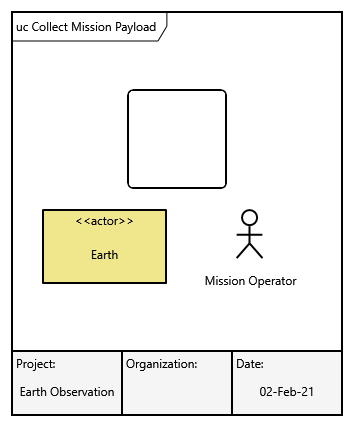
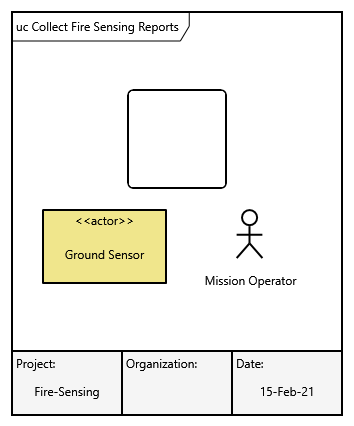
update teamview

diff --git a/docs/EntityBrowser.js b/docs/EntityBrowser.js
@@ -9,19 +9,22 @@ function FillEntityBrowser(guidID) {
 strEntities = '(no entities present)';
 
 if (guidID == '0f7e7123-0188-4249-af06-17bd15839ea6') {
-strEntities = "<span class='cNdeLink' onclick=\"E_C('f3d9d2c6-6332-47e4-910a-24514a5b5682_d2c054c3-1801-4fd3-81bd-e6ee696457e1')\">C Earth Observation System Context</span><br /><span class='cNdeLink' onclick=\"E_C('f3d9d2c6-6332-47e4-910a-24514a5b5682_ffc698c3-f4ce-43c0-a744-8d25ddfceed5')\">C.1 CubeSat</span><br /><span class='cNdeLink' onclick=\"E_C('f3d9d2c6-6332-47e4-910a-24514a5b5682_f3e8608a-bab7-493d-b7ce-8d614fc244b5')\">C.2 Ground Station</span><br /><span class='cNdeLink' onclick=\"E_C('f3d9d2c6-6332-47e4-910a-24514a5b5682_2f0d877e-f597-4b75-a17f-b649573ef870')\">E Earth</span><br /><span class='cNdeLink' onclick=\"E_C('f3d9d2c6-6332-47e4-910a-24514a5b5682_9e50580a-bc24-4d52-8a25-59982a498b04')\">G GPS</span><br /><span class='cNdeLink' onclick=\"E_C('f3d9d2c6-6332-47e4-910a-24514a5b5682_7df9593d-9895-4fcc-9789-d1b33ecc47e9')\">LS Launch Service</span><br /><span class='cNdeLink' onclick=\"E_C('f3d9d2c6-6332-47e4-910a-24514a5b5682_d6866885-c2a1-4949-8379-d6c20a9d3de4')\">MO Mission Operator</span><br />"
+strEntities = "<span class='cNdeLink' onclick=\"E_C('f3d9d2c6-6332-47e4-910a-24514a5b5682_d2c054c3-1801-4fd3-81bd-e6ee696457e1')\">C Forest Fire Sensing System Context</span><br /><span class='cNdeLink' onclick=\"E_C('f3d9d2c6-6332-47e4-910a-24514a5b5682_ffc698c3-f4ce-43c0-a744-8d25ddfceed5')\">C.1 CubeSat</span><br /><span class='cNdeLink' onclick=\"E_C('f3d9d2c6-6332-47e4-910a-24514a5b5682_f3e8608a-bab7-493d-b7ce-8d614fc244b5')\">C.2 Ground Station</span><br /><span class='cNdeLink' onclick=\"E_C('f3d9d2c6-6332-47e4-910a-24514a5b5682_9e50580a-bc24-4d52-8a25-59982a498b04')\">G GPS</span><br /><span class='cNdeLink' onclick=\"E_C('f3d9d2c6-6332-47e4-910a-24514a5b5682_2f0d877e-f597-4b75-a17f-b649573ef870')\">GS Ground Sensor</span><br /><span class='cNdeLink' onclick=\"E_C('f3d9d2c6-6332-47e4-910a-24514a5b5682_7df9593d-9895-4fcc-9789-d1b33ecc47e9')\">LS Launch Service</span><br /><span class='cNdeLink' onclick=\"E_C('f3d9d2c6-6332-47e4-910a-24514a5b5682_d6866885-c2a1-4949-8379-d6c20a9d3de4')\">MO Mission Operator</span><br />"
+}
+else if (guidID == 'b154ab56-ff10-4bc7-9456-c47397e30a58') {
+strEntities = "<span class='cNdeLink' onclick=\"E_C('f3d9d2c6-6332-47e4-910a-24514a5b5682_bd282495-b80a-4625-9ccc-174b4decf85e')\">DOC.1 CONOPS</span><br />"
 }
 else if (guidID == '18f36831-03b8-4d14-89cc-00a981def236') {
-strEntities = "<span class='cNdeLink' onclick=\"E_C('f3d9d2c6-6332-47e4-910a-24514a5b5682_a155b176-1040-4bf4-aa6b-e4e0dafd09fd')\">Deployment Control</span><br /><span class='cNdeLink' onclick=\"E_C('f3d9d2c6-6332-47e4-910a-24514a5b5682_2323fcfa-0748-4e80-8503-d1350a89a25c')\">Guidance &amp; Navigation</span><br /><span class='cNdeLink' onclick=\"E_C('f3d9d2c6-6332-47e4-910a-24514a5b5682_fd7716a4-e09f-412d-9f99-680c279d8705')\">Location</span><br /><span class='cNdeLink' onclick=\"E_C('f3d9d2c6-6332-47e4-910a-24514a5b5682_0627bf03-d93f-4638-9459-3f2ea7e33be4')\">Mission Control</span><br /><span class='cNdeLink' onclick=\"E_C('f3d9d2c6-6332-47e4-910a-24514a5b5682_17ef2868-3b4c-401e-a8b7-d2ea75bf277b')\">Mission Payload</span><br /><span class='cNdeLink' onclick=\"E_C('f3d9d2c6-6332-47e4-910a-24514a5b5682_c2f45277-81ca-4870-89cd-300f0c947a55')\">Observation</span><br />"
+strEntities = "<span class='cNdeLink' onclick=\"E_C('f3d9d2c6-6332-47e4-910a-24514a5b5682_a155b176-1040-4bf4-aa6b-e4e0dafd09fd')\">Deployment Control</span><br /><span class='cNdeLink' onclick=\"E_C('f3d9d2c6-6332-47e4-910a-24514a5b5682_2323fcfa-0748-4e80-8503-d1350a89a25c')\">Guidance &amp; Navigation</span><br /><span class='cNdeLink' onclick=\"E_C('f3d9d2c6-6332-47e4-910a-24514a5b5682_fd7716a4-e09f-412d-9f99-680c279d8705')\">Location</span><br /><span class='cNdeLink' onclick=\"E_C('f3d9d2c6-6332-47e4-910a-24514a5b5682_0627bf03-d93f-4638-9459-3f2ea7e33be4')\">Mission Control</span><br /><span class='cNdeLink' onclick=\"E_C('f3d9d2c6-6332-47e4-910a-24514a5b5682_17ef2868-3b4c-401e-a8b7-d2ea75bf277b')\">Mission Payload</span><br /><span class='cNdeLink' onclick=\"E_C('f3d9d2c6-6332-47e4-910a-24514a5b5682_c2f45277-81ca-4870-89cd-300f0c947a55')\">Sensor Report</span><br />"
 }
 else if (guidID == 'ab70da3b-1963-41e0-817e-f663e54f6681') {
 strEntities = "<span class='cNdeLink' onclick=\"E_C('f3d9d2c6-6332-47e4-910a-24514a5b5682_9f5f8c89-219d-44a1-ac21-b18689d5dfa3')\">1 Virginia Tech</span><br /><span class='cNdeLink' onclick=\"E_C('f3d9d2c6-6332-47e4-910a-24514a5b5682_4423a899-8818-4dda-bc72-82fc03e3c0bb')\">2 University of Virginia</span><br /><span class='cNdeLink' onclick=\"E_C('f3d9d2c6-6332-47e4-910a-24514a5b5682_a6e2c5f0-8851-45aa-b495-bbbee647078b')\">3 University of Southern California</span><br />"
 }
 else if (guidID == 'f5a2162d-74d3-47a0-9b8b-e51d12db78a0') {
-strEntities = "<span class='cNdeLink' onclick=\"E_C('f3d9d2c6-6332-47e4-910a-24514a5b5682_8713c517-fe38-4fd9-9988-141c4862c0d2')\">REQ.1 The earth observation system shall monitor United States weather patterns.</span><br />"
+strEntities = "<span class='cNdeLink' onclick=\"E_C('f3d9d2c6-6332-47e4-910a-24514a5b5682_8713c517-fe38-4fd9-9988-141c4862c0d2')\">REQ.1 The fire sensing system shall monitor a geographic area to detect forest fires.</span><br />"
 }
 else if (guidID == 'fcbe73fa-9d51-4d60-af41-6e728a715264') {
-strEntities = "<span class='cNdeLink' onclick=\"E_C('f3d9d2c6-6332-47e4-910a-24514a5b5682_8b55ba06-c7dd-40b2-bf8c-daf10cfdd352')\">UC Earth Observation</span><br /><span class='cNdeLink' onclick=\"E_C('f3d9d2c6-6332-47e4-910a-24514a5b5682_6490a095-835f-4181-8ba8-5ca8e83d3fd6')\">UC.1 Deploy CubeSat</span><br /><span class='cNdeLink' onclick=\"E_C('f3d9d2c6-6332-47e4-910a-24514a5b5682_df7939f4-9a08-481c-9537-837f56f36e7a')\">UC.2 Provide Guidance &amp; Navigation</span><br /><span class='cNdeLink' onclick=\"E_C('f3d9d2c6-6332-47e4-910a-24514a5b5682_0d0d7999-fb7b-4b6c-8ec9-789812a96cea')\">UC.3 Collect Mission Payload</span><br />"
+strEntities = "<span class='cNdeLink' onclick=\"E_C('f3d9d2c6-6332-47e4-910a-24514a5b5682_8b55ba06-c7dd-40b2-bf8c-daf10cfdd352')\">UC Forest Fire Sensing</span><br /><span class='cNdeLink' onclick=\"E_C('f3d9d2c6-6332-47e4-910a-24514a5b5682_6490a095-835f-4181-8ba8-5ca8e83d3fd6')\">UC.1 Deploy CubeSat</span><br /><span class='cNdeLink' onclick=\"E_C('f3d9d2c6-6332-47e4-910a-24514a5b5682_df7939f4-9a08-481c-9537-837f56f36e7a')\">UC.2 Provide Guidance &amp; Navigation</span><br /><span class='cNdeLink' onclick=\"E_C('f3d9d2c6-6332-47e4-910a-24514a5b5682_0d0d7999-fb7b-4b6c-8ec9-789812a96cea')\">UC.3 Collect Fire Sensing Reports</span><br />"
 }
 
 document.getElementById('tdEntitiesBorder').innerHTML = strEntities;

diff --git a/docs/f3d9d2c6-6332-47e4-910a-24514a5b5682_bd282495-b80a-4625-9ccc-174b4decf85e.htm b/docs/f3d9d2c6-6332-47e4-910a-24514a5b5682_bd282495-b80a-4625-9ccc-174b4decf85e.htm
@@ -26,8 +26,8 @@ window.parent.postMessage(document.body.scrollHeight, '*');
 </head>
 <body onload='window_Load()' style='text-align: center; padding-top: 10px'>
 <table cellpadding='0' cellspacing='0' style='width: 75%; margin-left: auto; margin-right: auto; vertical-align: top; padding-bottom: 10px'>
-<tr><td id='tdEntityName'>Requirement / The fire sensing system shall monitor a geographic area to detect forest fires.</td>
-<td style='text-align: right'>View:&nbsp;<select id='cmbEntityViews' onchange='View_Change()'><option value='f3d9d2c6-6332-47e4-910a-24514a5b5682_8713c517-fe38-4fd9-9988-141c4862c0d2.htm'>Property sheet</option>
+<tr><td id='tdEntityName'>Document / CONOPS</td>
+<td style='text-align: right'>View:&nbsp;<select id='cmbEntityViews' onchange='View_Change()'><option value='f3d9d2c6-6332-47e4-910a-24514a5b5682_bd282495-b80a-4625-9ccc-174b4decf85e.htm'>Property sheet</option>
 </select>
 </td></tr></table>
 <table cellpadding='5' cellspacing='0' class='cPrimBG' style='width: 75%; margin-left: auto; margin-right: auto; vertical-align: top'>
@@ -36,19 +36,33 @@ window.parent.postMessage(document.body.scrollHeight, '*');
 </td></tr></table>
 <table id='tblAttribSheet' cellpadding='5' cellspacing='0' class='cSecBG' style='width: 75%; margin-left: auto; margin-right: auto; text-align: left; vertical-align: top'>
 <tr><td style='font-weight: bold; width: 150px; vertical-align: top'>Name</td>
-<td>The fire sensing system shall monitor a geographic area to detect forest fires.</td></tr>
+<td>CONOPS</td></tr>
 <tr><td style='font-weight: bold; width: 150px; vertical-align: top'>Number</td>
-<td>REQ.1</td></tr>
+<td>DOC.1</td></tr>
+<tr><td style='font-weight: bold; width: 150px; vertical-align: top'>Description</td>
+<td><style type="text/css">
+			.cs2654AE3A{text-align:left;text-indent:0pt;margin:0pt 0pt 0pt 0pt}
+			.cs63D6557C{color:#000000;background-color:transparent;font-family:'Segoe UI';font-size:9pt;font-weight:normal;font-style:normal;}
+		</style>
+		<p class="cs2654AE3A"><span class="cs63D6557C">wildFIRE Remote Sensing (FIRE-RS) Concept of Operations</span></p><p class="cs2654AE3A"><span class="cs63D6557C">&nbsp;</span></p><p class="cs2654AE3A"><span class="cs63D6557C">https://github.com/coordinated-systems-lab/cube-sat/blob/main/common/lume-1-cubesat-case-study-updated.pdf </span></p></td></tr>
+<tr><td style='font-weight: bold; width: 150px; vertical-align: top'>Revision Number</td>
+<td>v1.0</td></tr>
+<tr><td style='font-weight: bold; width: 150px; vertical-align: top'>Document Date</td>
+<td>Thursday, December 27, 2018</td></tr>
 <tr><td style='font-weight: bold; width: 150px; vertical-align: top'>Type</td>
-<td>Functional</td></tr>
-<tr><td style='font-weight: bold; width: 150px; vertical-align: top'>Key Performance Parameter</td>
-<td>False</td></tr>
-<tr><td style='font-weight: bold; width: 150px; vertical-align: top'>Performance Parameter Type</td>
+<td>Procurement Specification</td></tr>
+<tr><td style='font-weight: bold; width: 150px; vertical-align: top'>Doc. Report</td>
 <td>nil</td></tr>
-<tr><td style='font-weight: bold; width: 150px; vertical-align: top'>Origin</td>
-<td>Originating</td></tr>
-<tr><td style='font-weight: bold; width: 150px; vertical-align: top'>Incentive Performance Parameter</td>
-<td>False</td></tr>
+<tr><td style='font-weight: bold; width: 150px; vertical-align: top'>Govt. Category</td>
+<td>nil</td></tr>
+<tr><td style='font-weight: bold; width: 150px; vertical-align: top'>Non-Govt. Category</td>
+<td>OTHER PUBLICATIONS</td></tr>
+<tr><td style='font-weight: bold; width: 150px; vertical-align: top'>Document Overview</td>
+<td><style type="text/css">
+			.cs2654AE3A{text-align:left;text-indent:0pt;margin:0pt 0pt 0pt 0pt}
+			.cs63D6557C{color:#000000;background-color:transparent;font-family:'Segoe UI';font-size:9pt;font-weight:normal;font-style:normal;}
+		</style>
+		<p class="cs2654AE3A"><span class="cs63D6557C">The European FireRS project aims the early detection of fires, as</span></p><p class="cs2654AE3A"><span class="cs63D6557C">well as their monitoring and continuous follow-up in order to provide</span></p><p class="cs2654AE3A"><span class="cs63D6557C">real data to emergency systems. It brings together three elements</span></p><p class="cs2654AE3A"><span class="cs63D6557C">that make up the system:</span></p><p class="cs2654AE3A"><span class="cs63D6557C">&bull; Ground sensors.</span></p><p class="cs2654AE3A"><span class="cs63D6557C">&bull; A satellite that collects data from sensors.</span></p><p class="cs2654AE3A"><span class="cs63D6557C">&bull; Software for predicting the progress of the fire.</span></p></td></tr>
 </table>
 <table id='tblParamSheet' cellpadding='5' cellspacing='0' class='cSecBG' style='display: none; width: 75%; margin-left: auto; margin-right: auto; text-align: left; vertical-align: top'>
 <tr><td>(none present)</td></tr>
@@ -56,7 +70,7 @@ window.parent.postMessage(document.body.scrollHeight, '*');
 <table cellpadding='5' cellspacing='0' class='cPrimBG' style='width: 75%; margin-left: auto; margin-right: auto; text-align: left; vertical-align: top'>
 <tr><td class='cPrimBG' style='text-align: left'>Relationships</td></tr></table>
 <table cellpadding='5' cellspacing='0' class='cSecBG' style='width: 75%; margin-left: auto; margin-right: auto; text-align: left; vertical-align: top'>
-<tr><td style='font-weight: bold; width: 150px; vertical-align: top'>elicited by</td>
+<tr><td style='font-weight: bold; width: 150px; vertical-align: top'>documents</td>
 <td>
 <div><span class='cNdeLink' style='text-decoration: underline' onclick="window.location.assign('f3d9d2c6-6332-47e4-910a-24514a5b5682_8b55ba06-c7dd-40b2-bf8c-daf10cfdd352.htm')">UseCase: UC Forest Fire Sensing</span></div>
 </td></tr>

diff --git a/docs/f3d9d2c6-6332-47e4-910a-24514a5b5682_8b55ba06-c7dd-40b2-bf8c-daf10cfdd352.htm b/docs/f3d9d2c6-6332-47e4-910a-24514a5b5682_8b55ba06-c7dd-40b2-bf8c-daf10cfdd352.htm
@@ -26,7 +26,7 @@ window.parent.postMessage(document.body.scrollHeight, '*');
 </head>
 <body onload='window_Load()' style='text-align: center; padding-top: 10px'>
 <table cellpadding='0' cellspacing='0' style='width: 75%; margin-left: auto; margin-right: auto; vertical-align: top; padding-bottom: 10px'>
-<tr><td id='tdEntityName'>UseCase / Earth Observation</td>
+<tr><td id='tdEntityName'>UseCase / Forest Fire Sensing</td>
 <td style='text-align: right'>View:&nbsp;<select id='cmbEntityViews' onchange='View_Change()'><option value='f3d9d2c6-6332-47e4-910a-24514a5b5682_8b55ba06-c7dd-40b2-bf8c-daf10cfdd352.htm'>Property sheet</option>
 <option value='f3d9d2c6-6332-47e4-910a-24514a5b5682_8b55ba06-c7dd-40b2-bf8c-daf10cfdd352_UseCase.htm'>UseCase</option>
 </select>
@@ -37,7 +37,7 @@ window.parent.postMessage(document.body.scrollHeight, '*');
 </td></tr></table>
 <table id='tblAttribSheet' cellpadding='5' cellspacing='0' class='cSecBG' style='width: 75%; margin-left: auto; margin-right: auto; text-align: left; vertical-align: top'>
 <tr><td style='font-weight: bold; width: 150px; vertical-align: top'>Name</td>
-<td>Earth Observation</td></tr>
+<td>Forest Fire Sensing</td></tr>
 <tr><td style='font-weight: bold; width: 150px; vertical-align: top'>Number</td>
 <td>UC</td></tr>
 </table>
@@ -47,11 +47,19 @@ window.parent.postMessage(document.body.scrollHeight, '*');
 <table cellpadding='5' cellspacing='0' class='cPrimBG' style='width: 75%; margin-left: auto; margin-right: auto; text-align: left; vertical-align: top'>
 <tr><td class='cPrimBG' style='text-align: left'>Relationships</td></tr></table>
 <table cellpadding='5' cellspacing='0' class='cSecBG' style='width: 75%; margin-left: auto; margin-right: auto; text-align: left; vertical-align: top'>
+<tr><td style='font-weight: bold; width: 150px; vertical-align: top'>documented by</td>
+<td>
+<div><span class='cNdeLink' style='text-decoration: underline' onclick="window.location.assign('f3d9d2c6-6332-47e4-910a-24514a5b5682_bd282495-b80a-4625-9ccc-174b4decf85e.htm')">Document: DOC.1 CONOPS</span></div>
+</td></tr>
+<tr><td style='font-weight: bold; width: 150px; vertical-align: top'>elicits</td>
+<td>
+<div><span class='cNdeLink' style='text-decoration: underline' onclick="window.location.assign('f3d9d2c6-6332-47e4-910a-24514a5b5682_8713c517-fe38-4fd9-9988-141c4862c0d2.htm')">Requirement: REQ.1 The fire sensing system shall monitor a geographic area to detect forest fires.</span></div>
+</td></tr>
 <tr><td style='font-weight: bold; width: 150px; vertical-align: top'>includes</td>
 <td>
 <div><span class='cNdeLink' style='text-decoration: underline' onclick="window.location.assign('f3d9d2c6-6332-47e4-910a-24514a5b5682_6490a095-835f-4181-8ba8-5ca8e83d3fd6.htm')">UseCase: UC.1 Deploy CubeSat</span></div>
 <div><span class='cNdeLink' style='text-decoration: underline' onclick="window.location.assign('f3d9d2c6-6332-47e4-910a-24514a5b5682_df7939f4-9a08-481c-9537-837f56f36e7a.htm')">UseCase: UC.2 Provide Guidance &amp; Navigation</span></div>
-<div><span class='cNdeLink' style='text-decoration: underline' onclick="window.location.assign('f3d9d2c6-6332-47e4-910a-24514a5b5682_0d0d7999-fb7b-4b6c-8ec9-789812a96cea.htm')">UseCase: UC.3 Collect Mission Payload</span></div>
+<div><span class='cNdeLink' style='text-decoration: underline' onclick="window.location.assign('f3d9d2c6-6332-47e4-910a-24514a5b5682_0d0d7999-fb7b-4b6c-8ec9-789812a96cea.htm')">UseCase: UC.3 Collect Fire Sensing Reports</span></div>
 </td></tr>
 <tr><td style='font-weight: bold; width: 150px; vertical-align: top'>involves</td>
 <td>

diff --git a/docs/f3d9d2c6-6332-47e4-910a-24514a5b5682_2f0d877e-f597-4b75-a17f-b649573ef870.htm b/docs/f3d9d2c6-6332-47e4-910a-24514a5b5682_2f0d877e-f597-4b75-a17f-b649573ef870.htm
@@ -26,7 +26,7 @@ window.parent.postMessage(document.body.scrollHeight, '*');
 </head>
 <body onload='window_Load()' style='text-align: center; padding-top: 10px'>
 <table cellpadding='0' cellspacing='0' style='width: 75%; margin-left: auto; margin-right: auto; vertical-align: top; padding-bottom: 10px'>
-<tr><td id='tdEntityName'>Component / Earth</td>
+<tr><td id='tdEntityName'>Component / Ground Sensor</td>
 <td style='text-align: right'>View:&nbsp;<select id='cmbEntityViews' onchange='View_Change()'><option value='f3d9d2c6-6332-47e4-910a-24514a5b5682_2f0d877e-f597-4b75-a17f-b649573ef870.htm'>Property sheet</option>
 </select>
 </td></tr></table>
@@ -36,13 +36,13 @@ window.parent.postMessage(document.body.scrollHeight, '*');
 </td></tr></table>
 <table id='tblAttribSheet' cellpadding='5' cellspacing='0' class='cSecBG' style='width: 75%; margin-left: auto; margin-right: auto; text-align: left; vertical-align: top'>
 <tr><td style='font-weight: bold; width: 150px; vertical-align: top'>Name</td>
-<td>Earth</td></tr>
+<td>Ground Sensor</td></tr>
 <tr><td style='font-weight: bold; width: 150px; vertical-align: top'>Number</td>
-<td>E</td></tr>
+<td>GS</td></tr>
 <tr><td style='font-weight: bold; width: 150px; vertical-align: top'>Abbreviation</td>
 <td>E</td></tr>
 <tr><td style='font-weight: bold; width: 150px; vertical-align: top'>Type</td>
-<td>Environment</td></tr>
+<td>External System</td></tr>
 </table>
 <table id='tblParamSheet' cellpadding='5' cellspacing='0' class='cSecBG' style='display: none; width: 75%; margin-left: auto; margin-right: auto; text-align: left; vertical-align: top'>
 <tr><td>(none present)</td></tr>
@@ -52,11 +52,11 @@ window.parent.postMessage(document.body.scrollHeight, '*');
 <table cellpadding='5' cellspacing='0' class='cSecBG' style='width: 75%; margin-left: auto; margin-right: auto; text-align: left; vertical-align: top'>
 <tr><td style='font-weight: bold; width: 150px; vertical-align: top'>connected to</td>
 <td>
-<div><span class='cNdeLink' style='text-decoration: underline' onclick="window.location.assign('f3d9d2c6-6332-47e4-910a-24514a5b5682_c2f45277-81ca-4870-89cd-300f0c947a55.htm')">Link:  Observation</span></div>
+<div><span class='cNdeLink' style='text-decoration: underline' onclick="window.location.assign('f3d9d2c6-6332-47e4-910a-24514a5b5682_c2f45277-81ca-4870-89cd-300f0c947a55.htm')">Link:  Sensor Report</span></div>
 </td></tr>
 <tr><td style='font-weight: bold; width: 150px; vertical-align: top'>participates in</td>
 <td>
-<div><span class='cNdeLink' style='text-decoration: underline' onclick="window.location.assign('f3d9d2c6-6332-47e4-910a-24514a5b5682_0d0d7999-fb7b-4b6c-8ec9-789812a96cea.htm')">UseCase: UC.3 Collect Mission Payload</span></div>
+<div><span class='cNdeLink' style='text-decoration: underline' onclick="window.location.assign('f3d9d2c6-6332-47e4-910a-24514a5b5682_0d0d7999-fb7b-4b6c-8ec9-789812a96cea.htm')">UseCase: UC.3 Collect Fire Sensing Reports</span></div>
 </td></tr>
 </table>
 </body></html>

diff --git a/docs/f3d9d2c6-6332-47e4-910a-24514a5b5682_0d0d7999-fb7b-4b6c-8ec9-789812a96cea.htm b/docs/f3d9d2c6-6332-47e4-910a-24514a5b5682_0d0d7999-fb7b-4b6c-8ec9-789812a96cea.htm
@@ -26,7 +26,7 @@ window.parent.postMessage(document.body.scrollHeight, '*');
 </head>
 <body onload='window_Load()' style='text-align: center; padding-top: 10px'>
 <table cellpadding='0' cellspacing='0' style='width: 75%; margin-left: auto; margin-right: auto; vertical-align: top; padding-bottom: 10px'>
-<tr><td id='tdEntityName'>UseCase / Collect Mission Payload</td>
+<tr><td id='tdEntityName'>UseCase / Collect Fire Sensing Reports</td>
 <td style='text-align: right'>View:&nbsp;<select id='cmbEntityViews' onchange='View_Change()'><option value='f3d9d2c6-6332-47e4-910a-24514a5b5682_0d0d7999-fb7b-4b6c-8ec9-789812a96cea.htm'>Property sheet</option>
 <option value='f3d9d2c6-6332-47e4-910a-24514a5b5682_0d0d7999-fb7b-4b6c-8ec9-789812a96cea_UseCase.htm'>UseCase</option>
 </select>
@@ -37,7 +37,7 @@ window.parent.postMessage(document.body.scrollHeight, '*');
 </td></tr></table>
 <table id='tblAttribSheet' cellpadding='5' cellspacing='0' class='cSecBG' style='width: 75%; margin-left: auto; margin-right: auto; text-align: left; vertical-align: top'>
 <tr><td style='font-weight: bold; width: 150px; vertical-align: top'>Name</td>
-<td>Collect Mission Payload</td></tr>
+<td>Collect Fire Sensing Reports</td></tr>
 <tr><td style='font-weight: bold; width: 150px; vertical-align: top'>Number</td>
 <td>UC.3</td></tr>
 </table>
@@ -49,11 +49,11 @@ window.parent.postMessage(document.body.scrollHeight, '*');
 <table cellpadding='5' cellspacing='0' class='cSecBG' style='width: 75%; margin-left: auto; margin-right: auto; text-align: left; vertical-align: top'>
 <tr><td style='font-weight: bold; width: 150px; vertical-align: top'>included in</td>
 <td>
-<div><span class='cNdeLink' style='text-decoration: underline' onclick="window.location.assign('f3d9d2c6-6332-47e4-910a-24514a5b5682_8b55ba06-c7dd-40b2-bf8c-daf10cfdd352.htm')">UseCase: UC Earth Observation</span></div>
+<div><span class='cNdeLink' style='text-decoration: underline' onclick="window.location.assign('f3d9d2c6-6332-47e4-910a-24514a5b5682_8b55ba06-c7dd-40b2-bf8c-daf10cfdd352.htm')">UseCase: UC Forest Fire Sensing</span></div>
 </td></tr>
 <tr><td style='font-weight: bold; width: 150px; vertical-align: top'>involves</td>
 <td>
-<div><span class='cNdeLink' style='text-decoration: underline' onclick="window.location.assign('f3d9d2c6-6332-47e4-910a-24514a5b5682_2f0d877e-f597-4b75-a17f-b649573ef870.htm')">Component: E Earth</span></div>
+<div><span class='cNdeLink' style='text-decoration: underline' onclick="window.location.assign('f3d9d2c6-6332-47e4-910a-24514a5b5682_2f0d877e-f597-4b75-a17f-b649573ef870.htm')">Component: GS Ground Sensor</span></div>
 <div><span class='cNdeLink' style='text-decoration: underline' onclick="window.location.assign('f3d9d2c6-6332-47e4-910a-24514a5b5682_d6866885-c2a1-4949-8379-d6c20a9d3de4.htm')">Component: MO Mission Operator</span></div>
 </td></tr>
 </table>

diff --git a/docs/f3d9d2c6-6332-47e4-910a-24514a5b5682_d2c054c3-1801-4fd3-81bd-e6ee696457e1.htm b/docs/f3d9d2c6-6332-47e4-910a-24514a5b5682_d2c054c3-1801-4fd3-81bd-e6ee696457e1.htm
@@ -26,7 +26,7 @@ window.parent.postMessage(document.body.scrollHeight, '*');
 </head>
 <body onload='window_Load()' style='text-align: center; padding-top: 10px'>
 <table cellpadding='0' cellspacing='0' style='width: 75%; margin-left: auto; margin-right: auto; vertical-align: top; padding-bottom: 10px'>
-<tr><td id='tdEntityName'>Component / Earth Observation System Context</td>
+<tr><td id='tdEntityName'>Component / Forest Fire Sensing System Context</td>
 <td style='text-align: right'>View:&nbsp;<select id='cmbEntityViews' onchange='View_Change()'><option value='f3d9d2c6-6332-47e4-910a-24514a5b5682_d2c054c3-1801-4fd3-81bd-e6ee696457e1.htm'>Property sheet</option>
 <option value='f3d9d2c6-6332-47e4-910a-24514a5b5682_d2c054c3-1801-4fd3-81bd-e6ee696457e1_BDD.htm'>BDD</option>
 <option value='f3d9d2c6-6332-47e4-910a-24514a5b5682_d2c054c3-1801-4fd3-81bd-e6ee696457e1_PhysicalBlock.htm'>PhysicalBlock</option>
@@ -38,7 +38,7 @@ window.parent.postMessage(document.body.scrollHeight, '*');
 </td></tr></table>
 <table id='tblAttribSheet' cellpadding='5' cellspacing='0' class='cSecBG' style='width: 75%; margin-left: auto; margin-right: auto; text-align: left; vertical-align: top'>
 <tr><td style='font-weight: bold; width: 150px; vertical-align: top'>Name</td>
-<td>Earth Observation System Context</td></tr>
+<td>Forest Fire Sensing System Context</td></tr>
 <tr><td style='font-weight: bold; width: 150px; vertical-align: top'>Number</td>
 <td>C</td></tr>
 <tr><td style='font-weight: bold; width: 150px; vertical-align: top'>Description</td>
@@ -48,7 +48,7 @@ window.parent.postMessage(document.body.scrollHeight, '*');
 		</style>
 		<p class="cs2654AE3A"><span class="cs63D6557C">The system context identifies the physical context (the environment and external systems your system interacts with) enabling you to specify the system boundary.</span></p></td></tr>
 <tr><td style='font-weight: bold; width: 150px; vertical-align: top'>Abbreviation</td>
-<td>EOS</td></tr>
+<td>FFSS</td></tr>
 <tr><td style='font-weight: bold; width: 150px; vertical-align: top'>Type</td>
 <td>Context</td></tr>
 </table>

diff --git a/docs/f3d9d2c6-6332-47e4-910a-24514a5b5682_ffc698c3-f4ce-43c0-a744-8d25ddfceed5.htm b/docs/f3d9d2c6-6332-47e4-910a-24514a5b5682_ffc698c3-f4ce-43c0-a744-8d25ddfceed5.htm
@@ -56,7 +56,7 @@ window.parent.postMessage(document.body.scrollHeight, '*');
 </td></tr>
 <tr><td style='font-weight: bold; width: 150px; vertical-align: top'>built in</td>
 <td>
-<div><span class='cNdeLink' style='text-decoration: underline' onclick="window.location.assign('f3d9d2c6-6332-47e4-910a-24514a5b5682_d2c054c3-1801-4fd3-81bd-e6ee696457e1.htm')">Component: C Earth Observation System Context</span></div>
+<div><span class='cNdeLink' style='text-decoration: underline' onclick="window.location.assign('f3d9d2c6-6332-47e4-910a-24514a5b5682_d2c054c3-1801-4fd3-81bd-e6ee696457e1.htm')">Component: C Forest Fire Sensing System Context</span></div>
 <div style='padding-left: 25px'><span style='font-style: italic'>Whole Multiplicity:&nbsp;</span>0</div>
 <div style='padding-left: 25px'><span style='font-style: italic'>Part Multiplicity:&nbsp;</span>1</div>
 </td></tr>
@@ -66,7 +66,7 @@ window.parent.postMessage(document.body.scrollHeight, '*');
 <div><span class='cNdeLink' style='text-decoration: underline' onclick="window.location.assign('f3d9d2c6-6332-47e4-910a-24514a5b5682_2323fcfa-0748-4e80-8503-d1350a89a25c.htm')">Link:  Guidance &amp; Navigation</span></div>
 <div><span class='cNdeLink' style='text-decoration: underline' onclick="window.location.assign('f3d9d2c6-6332-47e4-910a-24514a5b5682_fd7716a4-e09f-412d-9f99-680c279d8705.htm')">Link:  Location</span></div>
 <div><span class='cNdeLink' style='text-decoration: underline' onclick="window.location.assign('f3d9d2c6-6332-47e4-910a-24514a5b5682_17ef2868-3b4c-401e-a8b7-d2ea75bf277b.htm')">Link:  Mission Payload</span></div>
-<div><span class='cNdeLink' style='text-decoration: underline' onclick="window.location.assign('f3d9d2c6-6332-47e4-910a-24514a5b5682_c2f45277-81ca-4870-89cd-300f0c947a55.htm')">Link:  Observation</span></div>
+<div><span class='cNdeLink' style='text-decoration: underline' onclick="window.location.assign('f3d9d2c6-6332-47e4-910a-24514a5b5682_c2f45277-81ca-4870-89cd-300f0c947a55.htm')">Link:  Sensor Report</span></div>
 </td></tr>
 </table>
 </body></html>

diff --git a/docs/f3d9d2c6-6332-47e4-910a-24514a5b5682_d2c054c3-1801-4fd3-81bd-e6ee696457e1_PhysicalBlock.htm b/docs/f3d9d2c6-6332-47e4-910a-24514a5b5682_d2c054c3-1801-4fd3-81bd-e6ee696457e1_PhysicalBlock.htm
@@ -26,7 +26,7 @@ window.parent.postMessage(document.body.scrollHeight, '*');
 </head>
 <body onload='window_Load()' style='text-align: center; padding-top: 10px'>
 <table cellpadding='0' cellspacing='0' style='width: 75%; margin-left: auto; margin-right: auto; vertical-align: top; padding-bottom: 10px'>
-<tr><td id='tdEntityName'>Component / Earth Observation System Context</td>
+<tr><td id='tdEntityName'>Component / Forest Fire Sensing System Context</td>
 <td style='text-align: right'>View:&nbsp;<select id='cmbEntityViews' onchange='View_Change()'><option value='f3d9d2c6-6332-47e4-910a-24514a5b5682_d2c054c3-1801-4fd3-81bd-e6ee696457e1.htm'>Property sheet</option>
 <option value='f3d9d2c6-6332-47e4-910a-24514a5b5682_d2c054c3-1801-4fd3-81bd-e6ee696457e1_BDD.htm'>BDD</option>
 <option value='f3d9d2c6-6332-47e4-910a-24514a5b5682_d2c054c3-1801-4fd3-81bd-e6ee696457e1_PhysicalBlock.htm'>PhysicalBlock</option>
@@ -42,7 +42,7 @@ window.parent.postMessage(document.body.scrollHeight, '*');
 <area shape='rect' coords='41,320,161,390' href='f3d9d2c6-6332-47e4-910a-24514a5b5682_d6866885-c2a1-4949-8379-d6c20a9d3de4.htm'>
 <area shape='rect' coords='644,418,660,463' href='f3d9d2c6-6332-47e4-910a-24514a5b5682_fd7716a4-e09f-412d-9f99-680c279d8705.htm'>
 <area shape='rect' coords='660,175,676,283' href='f3d9d2c6-6332-47e4-910a-24514a5b5682_a155b176-1040-4bf4-aa6b-e4e0dafd09fd.htm'>
-<area shape='rect' coords='747,348,811,363' href='f3d9d2c6-6332-47e4-910a-24514a5b5682_c2f45277-81ca-4870-89cd-300f0c947a55.htm'>
+<area shape='rect' coords='731,348,827,363' href='f3d9d2c6-6332-47e4-910a-24514a5b5682_c2f45277-81ca-4870-89cd-300f0c947a55.htm'>
 <area shape='rect' coords='444,364,567,379' href='f3d9d2c6-6332-47e4-910a-24514a5b5682_2323fcfa-0748-4e80-8503-d1350a89a25c.htm'>
 <area shape='rect' coords='463,332,548,347' href='f3d9d2c6-6332-47e4-910a-24514a5b5682_17ef2868-3b4c-401e-a8b7-d2ea75bf277b.htm'>
 <area shape='rect' coords='180,328,263,344' href='f3d9d2c6-6332-47e4-910a-24514a5b5682_0627bf03-d93f-4638-9459-3f2ea7e33be4.htm'>

diff --git a/docs/f3d9d2c6-6332-47e4-910a-24514a5b5682_c2f45277-81ca-4870-89cd-300f0c947a55.htm b/docs/f3d9d2c6-6332-47e4-910a-24514a5b5682_c2f45277-81ca-4870-89cd-300f0c947a55.htm
@@ -26,7 +26,7 @@ window.parent.postMessage(document.body.scrollHeight, '*');
 </head>
 <body onload='window_Load()' style='text-align: center; padding-top: 10px'>
 <table cellpadding='0' cellspacing='0' style='width: 75%; margin-left: auto; margin-right: auto; vertical-align: top; padding-bottom: 10px'>
-<tr><td id='tdEntityName'>Link / Observation</td>
+<tr><td id='tdEntityName'>Link / Sensor Report</td>
 <td style='text-align: right'>View:&nbsp;<select id='cmbEntityViews' onchange='View_Change()'><option value='f3d9d2c6-6332-47e4-910a-24514a5b5682_c2f45277-81ca-4870-89cd-300f0c947a55.htm'>Property sheet</option>
 </select>
 </td></tr></table>
@@ -36,7 +36,7 @@ window.parent.postMessage(document.body.scrollHeight, '*');
 </td></tr></table>
 <table id='tblAttribSheet' cellpadding='5' cellspacing='0' class='cSecBG' style='width: 75%; margin-left: auto; margin-right: auto; text-align: left; vertical-align: top'>
 <tr><td style='font-weight: bold; width: 150px; vertical-align: top'>Name</td>
-<td>Observation</td></tr>
+<td>Sensor Report</td></tr>
 <tr><td style='font-weight: bold; width: 150px; vertical-align: top'>Type</td>
 <td>nil</td></tr>
 </table>
@@ -49,7 +49,7 @@ window.parent.postMessage(document.body.scrollHeight, '*');
 <tr><td style='font-weight: bold; width: 150px; vertical-align: top'>connects to</td>
 <td>
 <div><span class='cNdeLink' style='text-decoration: underline' onclick="window.location.assign('f3d9d2c6-6332-47e4-910a-24514a5b5682_ffc698c3-f4ce-43c0-a744-8d25ddfceed5.htm')">Component: C.1 CubeSat</span></div>
-<div><span class='cNdeLink' style='text-decoration: underline' onclick="window.location.assign('f3d9d2c6-6332-47e4-910a-24514a5b5682_2f0d877e-f597-4b75-a17f-b649573ef870.htm')">Component: E Earth</span></div>
+<div><span class='cNdeLink' style='text-decoration: underline' onclick="window.location.assign('f3d9d2c6-6332-47e4-910a-24514a5b5682_2f0d877e-f597-4b75-a17f-b649573ef870.htm')">Component: GS Ground Sensor</span></div>
 </td></tr>
 </table>
 </body></html>

diff --git a/docs/index.html b/docs/index.html
@@ -1,7 +1,7 @@
 <!DOCTYPE html Public '-//W3C//DTD XHTML 1.0 Transitional//EN' 'http://www.w3.org/TR/xhtml1/DTD/xhtml1-transitional.dtd'>
 <html xmlns='http://www.w3.org/1999/xhtml'>
 <head>
-<title>Earth Observation</title>
+<title>Fire-Sensing</title>
 <link rel='stylesheet' type='text/css' href='GENESYS_TeamView.css'/>
 <script type='text/javascript' src='FolderBrowser.js'></script>
 <script type='text/javascript' src='EntityBrowser.js'></script>
@@ -24,16 +24,16 @@ document.getElementById('iframeMain').style.height = pageHeight_Pixels + 'px';
 <table cellpadding='0' cellspacing='0' style='width: 100%; padding-bottom: 10px'>
 <tr>
 <td>
-<a href='index.html'><img src='GENESYS_TeamView.png' style='width: 300px'/></a>
+<a href='index.html'><img src='GENESYS_teamView.png' style='width: 300px'/></a>
 </td>
 <td style='text-align: right; vertical-align: bottom'>
 <div id='divProjectName'>
-Project: Earth Observation
+Project: Fire-Sensing
 </div>
 <div>
 Contact: Tim Sherburne<br />
 <a href='http://www.vitechcorp.com' target='_blank'>Powered By GENESYS</a>.
-Generated 2 
+Generated 15 
 February 
 2021.
 </div>
@@ -59,6 +59,12 @@ February
 <span class='cNde'>
 <img src='F_E.png' align='bottom' onclick='T_C(this)'/>
 <span class='cNdeLink' onclick="FP_C(this, '0f7e7123-0188-4249-af06-17bd15839ea6')">Component</span>
+</span>
+</div>
+<div class='cL1'>
+<span class='cNde'>
+<img src='F_E.png' align='bottom' onclick='T_C(this)'/>
+<span class='cNdeLink' onclick="FP_C(this, 'b154ab56-ff10-4bc7-9456-c47397e30a58')">Document</span>
 </span>
 </div>
 <div class='cL1'>

diff --git a/docs/f3d9d2c6-6332-47e4-910a-24514a5b5682_d6866885-c2a1-4949-8379-d6c20a9d3de4.htm b/docs/f3d9d2c6-6332-47e4-910a-24514a5b5682_d6866885-c2a1-4949-8379-d6c20a9d3de4.htm
@@ -58,7 +58,7 @@ window.parent.postMessage(document.body.scrollHeight, '*');
 <td>
 <div><span class='cNdeLink' style='text-decoration: underline' onclick="window.location.assign('f3d9d2c6-6332-47e4-910a-24514a5b5682_6490a095-835f-4181-8ba8-5ca8e83d3fd6.htm')">UseCase: UC.1 Deploy CubeSat</span></div>
 <div><span class='cNdeLink' style='text-decoration: underline' onclick="window.location.assign('f3d9d2c6-6332-47e4-910a-24514a5b5682_df7939f4-9a08-481c-9537-837f56f36e7a.htm')">UseCase: UC.2 Provide Guidance &amp; Navigation</span></div>
-<div><span class='cNdeLink' style='text-decoration: underline' onclick="window.location.assign('f3d9d2c6-6332-47e4-910a-24514a5b5682_0d0d7999-fb7b-4b6c-8ec9-789812a96cea.htm')">UseCase: UC.3 Collect Mission Payload</span></div>
+<div><span class='cNdeLink' style='text-decoration: underline' onclick="window.location.assign('f3d9d2c6-6332-47e4-910a-24514a5b5682_0d0d7999-fb7b-4b6c-8ec9-789812a96cea.htm')">UseCase: UC.3 Collect Fire Sensing Reports</span></div>
 </td></tr>
 </table>
 </body></html>

diff --git a/docs/MainHome.htm b/docs/MainHome.htm
@@ -26,9 +26,9 @@ window.parent.postMessage(document.body.scrollHeight, '*');
 <body onload='window_Load()' style='text-align: center'>
 <table cellpadding='0' cellspacing='0' style='margin-left: auto; margin-right: auto'>
 <tr><td style='padding-top: 85px; padding-bottom: 45px'><img src='cube-sat.png'/></td></tr>
-<tr><td style='padding: 5px; font-weight: bold; font-size: 180%; background-color: #3f5f7b; color: white'>Project: Earth Observation</td></tr>
+<tr><td style='padding: 5px; font-weight: bold; font-size: 180%; background-color: #3f5f7b; color: white'>Project: Fire-Sensing</td></tr>
 </table>
 <table cellpadding='0' cellspacing='0' style='width: 50%; margin-left: auto; margin-right: auto'>
-<tr><td style='padding-top: 45px; text-align: center'>Sparse MBSE Information Model (v.0.0.0)</td></tr>
+<tr><td style='padding-top: 45px; text-align: center'>Sparse MBSE Information Model (v.0.0.1)</td></tr>
 </table>
 </body></html>
